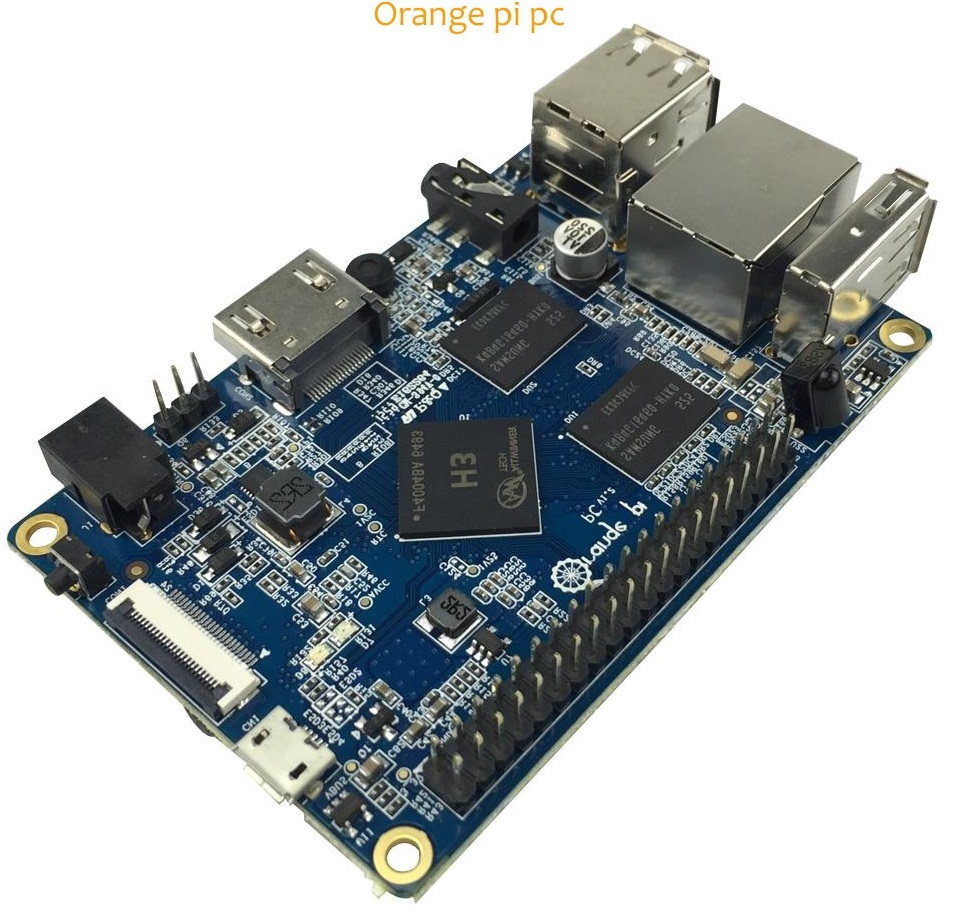
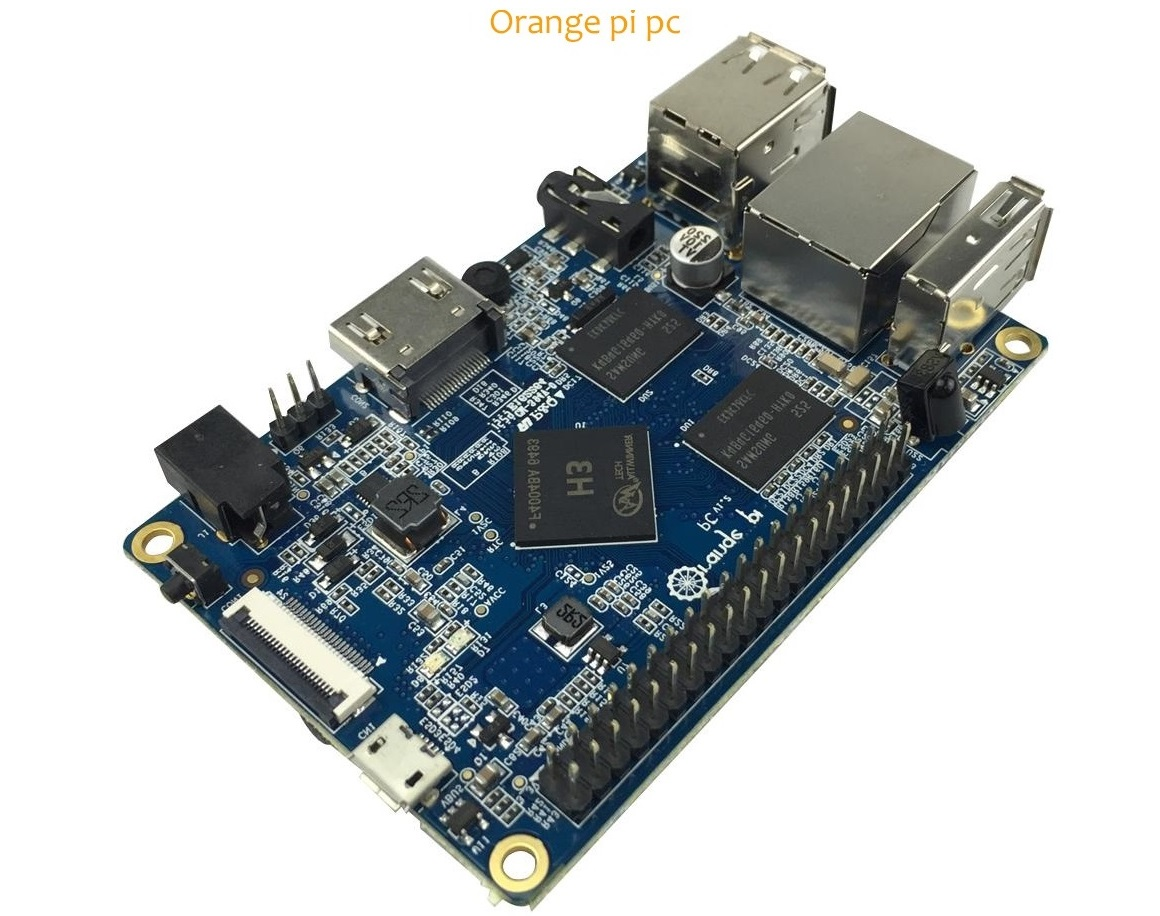
commit

diff --git a/index.html b/index.html
@@ -4,8 +4,8 @@
 	</head>
 	<body>
 		<div><img src=http://gabrieljoyki.github.io/AW/img/Orange-Pi-Logo.png></div>
-		<a href=http://gabrieljoyki.github.io/AW/OrangePiPc.html> <img src=http://gabrieljoyki.github.io/AW/img/Orange-Pi-Pc.jpg></a>
-		<a href=http://gabrieljoyki.github.io/AW/OrangePiPlus2.html> <img src=http://gabrieljoyki.github.io/AW/img/Orange-Pi-Plus-2-H3-Quad-Core-1-6GHZ-2GB-RAM-4K-Open-source-development-board.jpg></a>
+		<a href=http://gabrieljoyki.github.io/AW/OrangePiPc.html> <img src=http://gabrieljoyki.github.io/AW/img/Orange-Pi-Pc.jpg width="212.7" height="204.2"></a>
+		<a href=http://gabrieljoyki.github.io/AW/OrangePiPlus2.html> <img src=http://gabrieljoyki.github.io/AW/img/Orange-Pi-Plus-2-H3-Quad-Core-1-6GHZ-2GB-RAM-4K-Open-source-development-board.jpg width="211" height="145"></a>
 		<a href=http://gabrieljoyki.github.io/AW/OrangePiPlus.html> <img src=http://gabrieljoyki.github.io/AW/img/orange-pi_-08_2048x2048.jpg></a></div>
 	</body>
 </html>
